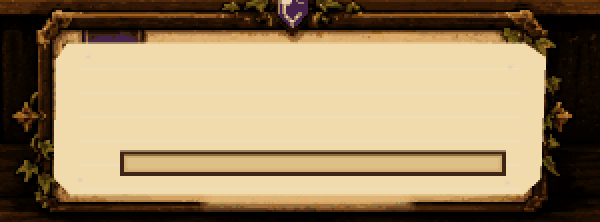
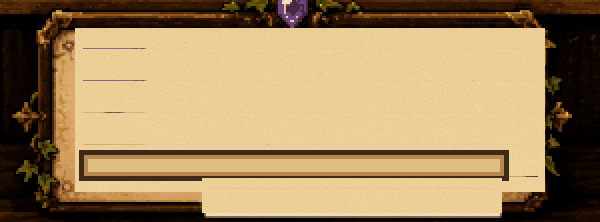
Add files via upload

diff --git a/index.html b/index.html
@@ -1078,12 +1078,84 @@ header{background-image:url('./hyb-header.png')!important}
 }
 </style>
 
+
+<style id="v49-rich-hybrid-concept">
+/* v4.9: rich illustrated layers. Visible structure comes from artwork, never CSS cards. */
+#home.hyb-home{background:#1d110c url('./hyb-wood-tile.png') repeat!important;background-size:512px 384px!important}
+.hyb-home-stage{padding-top:8px!important;padding-bottom:10px!important}
+.hyb-home-stage img{image-rendering:auto!important;filter:none!important}
+
+/* Quest board: rich separated parchment layers, calmer live text. */
+.hyb-board-zone{width:103%!important;aspect-ratio:914/383!important;margin:-2px -1.5% 0!important}
+.hyb-note{top:10.5%!important;width:27.5%!important;height:75.5%!important}
+.hyb-note-1{left:8.2%!important;transform:rotate(-.9deg)!important}
+.hyb-note-2{left:36.2%!important;transform:rotate(.45deg) translateY(-1.2%)!important}
+.hyb-note-3{left:64.2%!important;transform:rotate(-.45deg) translateY(.5%)!important}
+.hyb-note-art{object-fit:fill!important}
+.hyb-role-icon{left:9%!important;top:10.5%!important;width:18%!important}
+.hyb-role{left:30%!important;top:14%!important;font-size:clamp(8px,2.15vw,12px)!important;letter-spacing:.25px!important}
+.hyb-qtitle{left:8%!important;right:7%!important;top:28.5%!important;font-size:clamp(11px,3.15vw,18px)!important;line-height:1.02!important;-webkit-line-clamp:2!important}
+.hyb-qobj{left:8%!important;right:8%!important;top:48%!important;font-size:clamp(7.5px,2.05vw,11px)!important;line-height:1.12!important;-webkit-line-clamp:2!important;color:#634a34!important}
+.hyb-qmeta,.hyb-qxp{bottom:8.5%!important;font-size:clamp(7.5px,2vw,10.5px)!important}
+
+/* Rank: illustrated carved frame + parchment safe zone. Badge stays a separate layer. */
+.hyb-rank-zone{width:82%!important;aspect-ratio:600/222!important;margin:-22px auto 0!important}
+.hyb-rank-art{object-fit:fill!important}
+.hyb-badge-art{left:7.2%!important;top:19%!important;width:14.5%!important}
+.hyb-gem-art{display:none!important}
+.hyb-rank-label{left:23%!important;right:8%!important;top:18%!important;font-size:clamp(6.5px,1.8vw,9px)!important}
+.hyb-rank-level{left:10.1%!important;top:37%!important;width:8.8%!important;font-size:clamp(7px,1.9vw,10px)!important}
+.hyb-rank-title{left:23%!important;right:7%!important;top:31%!important;font-size:clamp(15px,4.2vw,23px)!important}
+.hyb-rank-region{left:24%!important;right:7%!important;top:54%!important;font-size:clamp(7px,1.9vw,10px)!important}
+.hyb-rank-fill-clip{left:15%!important;top:69.5%!important;width:69%!important;height:5.7%!important}
+.hyb-rank-xp{left:23%!important;right:8%!important;top:81%!important;font-size:clamp(7px,1.9vw,10px)!important}
+
+/* Reading hero: one rich illustrated book scene layer + live text only. */
+.hyb-book-zone{width:108%!important;aspect-ratio:1024/470!important;margin:-3px -4% 0!important}
+.hyb-book-art{left:0!important;top:0!important;width:100%!important;height:100%!important;object-fit:fill!important}
+.hyb-decor,.hyb-ribbon-art{display:none!important}
+.hyb-book-icon{left:17.5%!important;top:16.5%!important;width:4.2%!important;z-index:8!important}
+.hyb-current-label{left:22.5%!important;top:14.5%!important}
+.hyb-book-title{left:22.5%!important;top:20.5%!important;width:25.5%!important;font-size:clamp(13px,3.65vw,20px)!important;line-height:1.02!important}
+.hyb-read-mode{left:18%!important;top:38%!important;width:29%!important}
+.hyb-session-label{left:18%!important;top:47%!important}.hyb-session-time{left:18%!important;top:53%!important}
+.hyb-chapters-label{left:18%!important;top:64%!important}.hyb-session-chapters{left:18%!important;top:70%!important}
+.hyb-progress-label{left:55%!important;top:15%!important}
+.hyb-page-text{left:53.5%!important;top:22.5%!important;width:24%!important;font-size:clamp(12px,3.35vw,18px)!important}
+.hyb-read-fill-clip{left:55.5%!important;top:39.7%!important;width:18.2%!important;height:2.8%!important}
+.hyb-percent{left:56.5%!important;top:45.5%!important;width:16%!important}
+.hyb-last-label{left:55%!important;top:65%!important}.hyb-last-finished{left:55%!important;top:71.5%!important;width:22%!important;font-size:clamp(9px,2.45vw,13.5px)!important}
+.hyb-open-reader{left:77.1%!important;top:26%!important;width:8.8%!important;height:29%!important;font-size:clamp(6px,1.65vw,8.5px)!important}
+
+/* Rich carved action assets. No visible CSS surfaces. */
+.hyb-actions-zone{width:82%!important;height:102px!important;margin:-5px auto 0!important;gap:5%!important}
+.hyb-action-wrap{height:96px!important}.hyb-action-art{object-fit:fill!important}
+.hyb-action-icon{left:7%!important;top:32%!important;width:13%!important}
+.hyb-action-hit{font-size:clamp(7px,1.95vw,10px)!important;padding-left:14%!important}
+.hyb-ledger-zone{width:58%!important;height:108px!important;margin:-4px auto 0!important}.hyb-ledger-art{object-fit:fill!important}
+.hyb-ledger-icon{left:7.5%!important;top:31%!important;width:12%!important}
+.hyb-ledger-hit{font-size:clamp(8px,2.2vw,11.5px)!important}
+.hyb-save{margin-top:2px!important}
+
+/* Keep nav crisp and quiet so the illustrated desk remains the focus. */
+.bottom-nav{background:#2b180f!important}
+
+@media(max-width:430px){
+ .hyb-board-zone{width:105%!important;margin-left:-2.5%!important}
+ .hyb-rank-zone{width:86%!important}
+ .hyb-book-zone{width:111%!important;margin-left:-5.5%!important}
+ .hyb-qobj{-webkit-line-clamp:2!important}
+ .hyb-actions-zone{width:86%!important}
+ .hyb-ledger-zone{width:62%!important}
+}
+</style>
+
 </head>
 <body>
 <div class="app">
 <header>
   <div class="header-title"><img src="./asset-goose.png" class="header-goose" alt=""><h1>READING MMO</h1></div>
-  <div class="sub">Enchanted Library • v4.8 • Hybrid Layered Desk</div>
+  <div class="sub">Enchanted Library • Candlelit Reading Desk</div>
   <div class="appstatus">
     <span id="onlineDot" class="status-dot">●</span>
     <span id="onlineText">Online</span>
